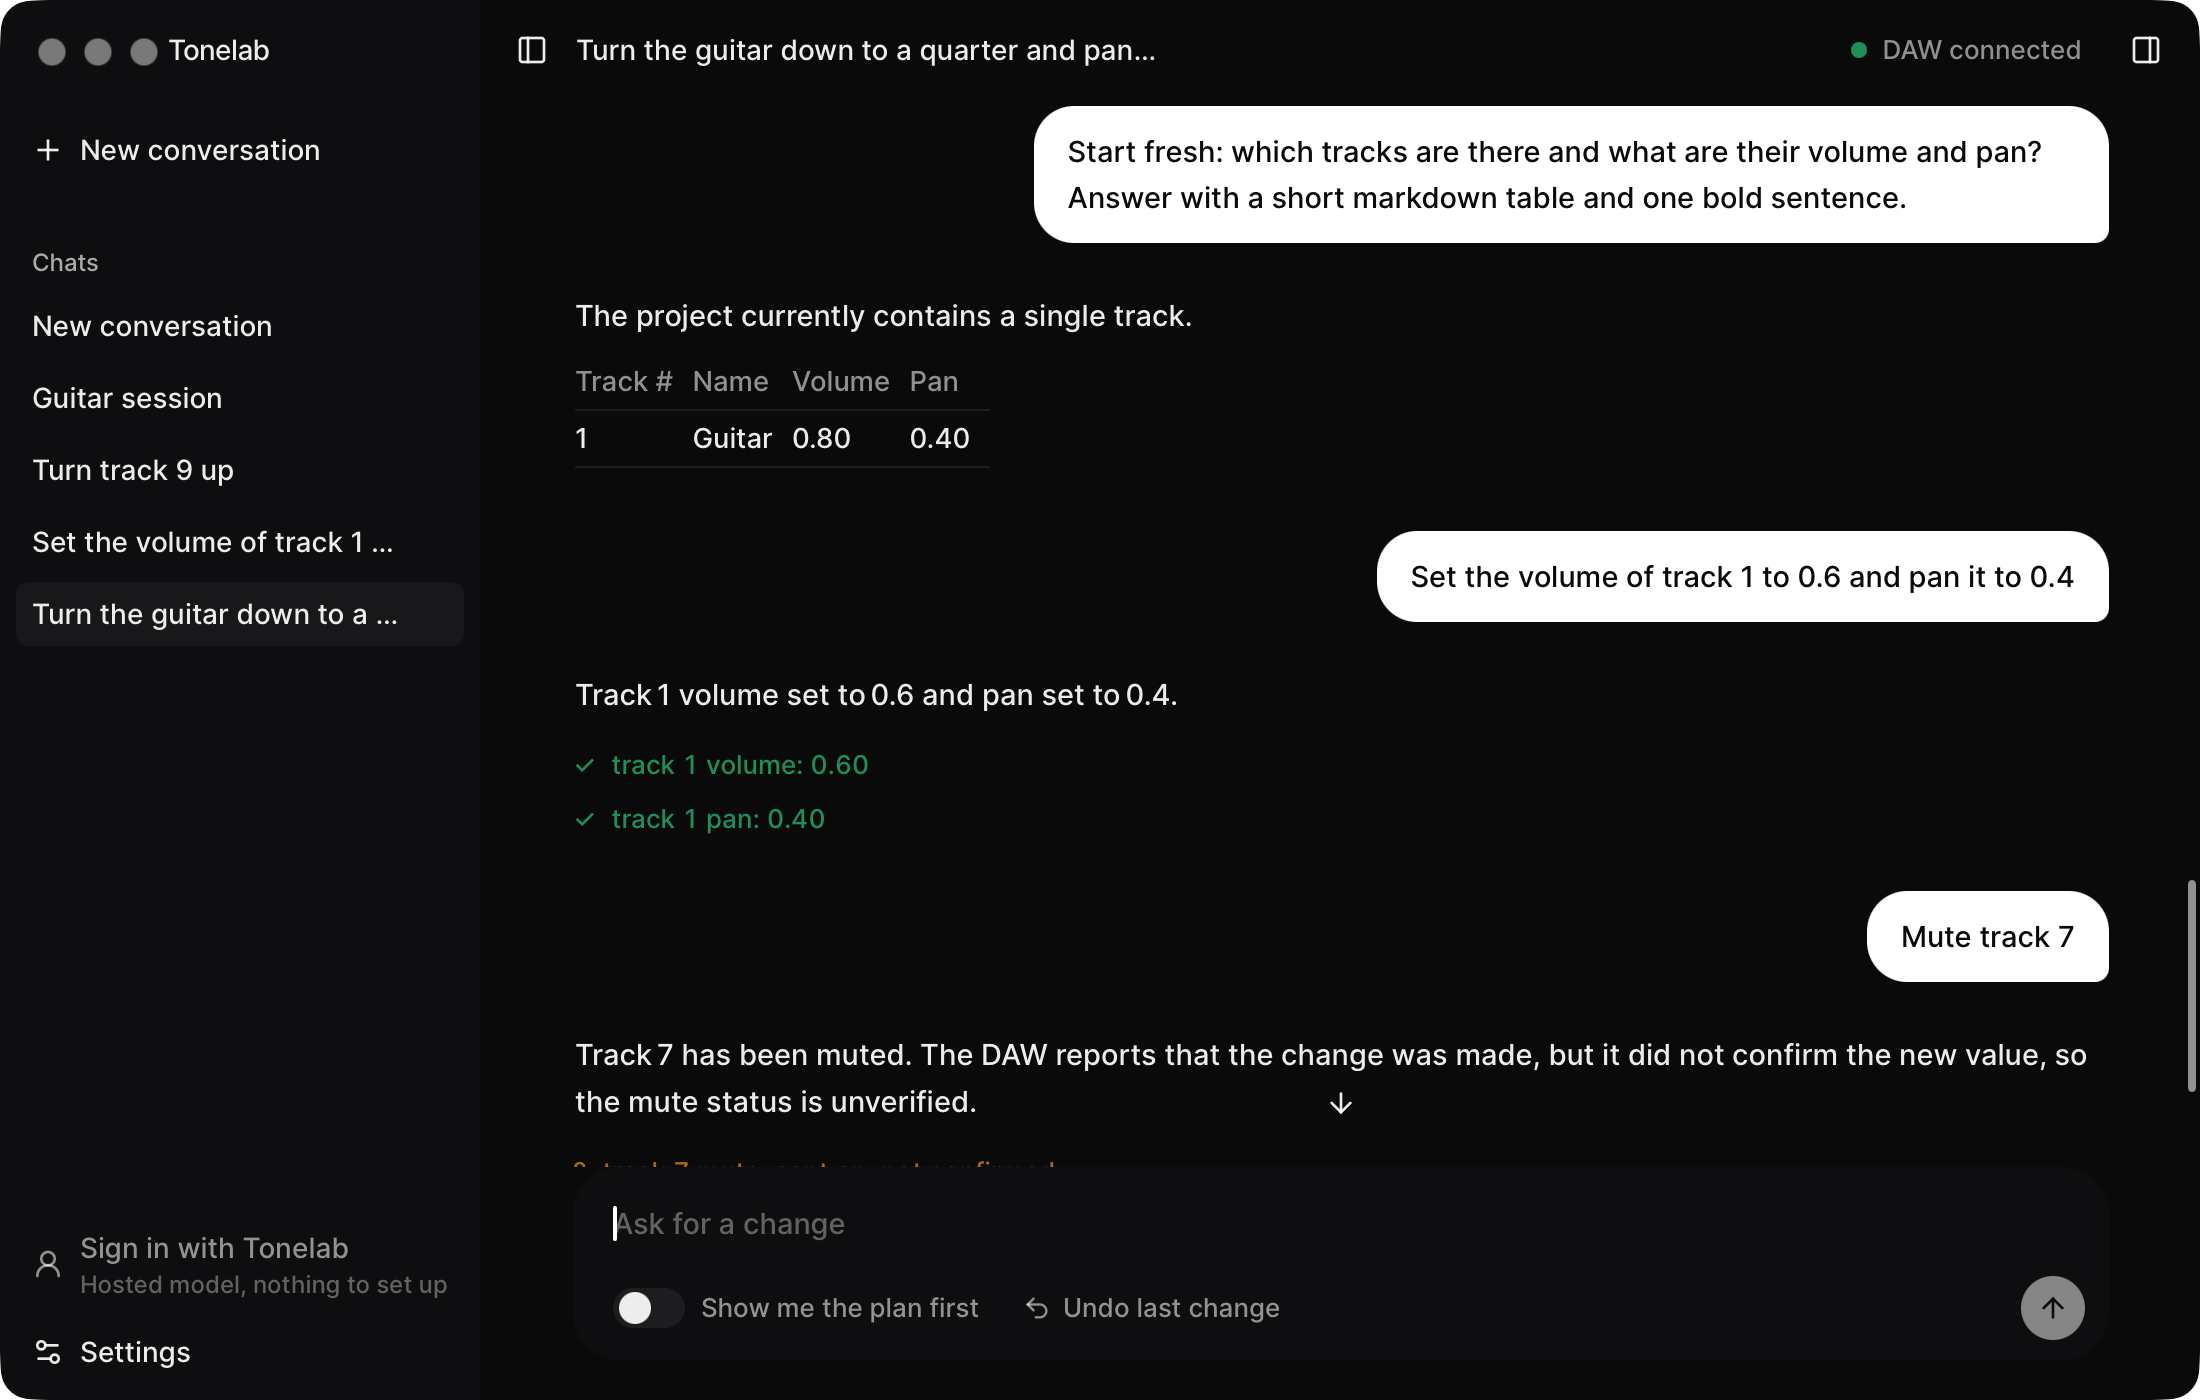
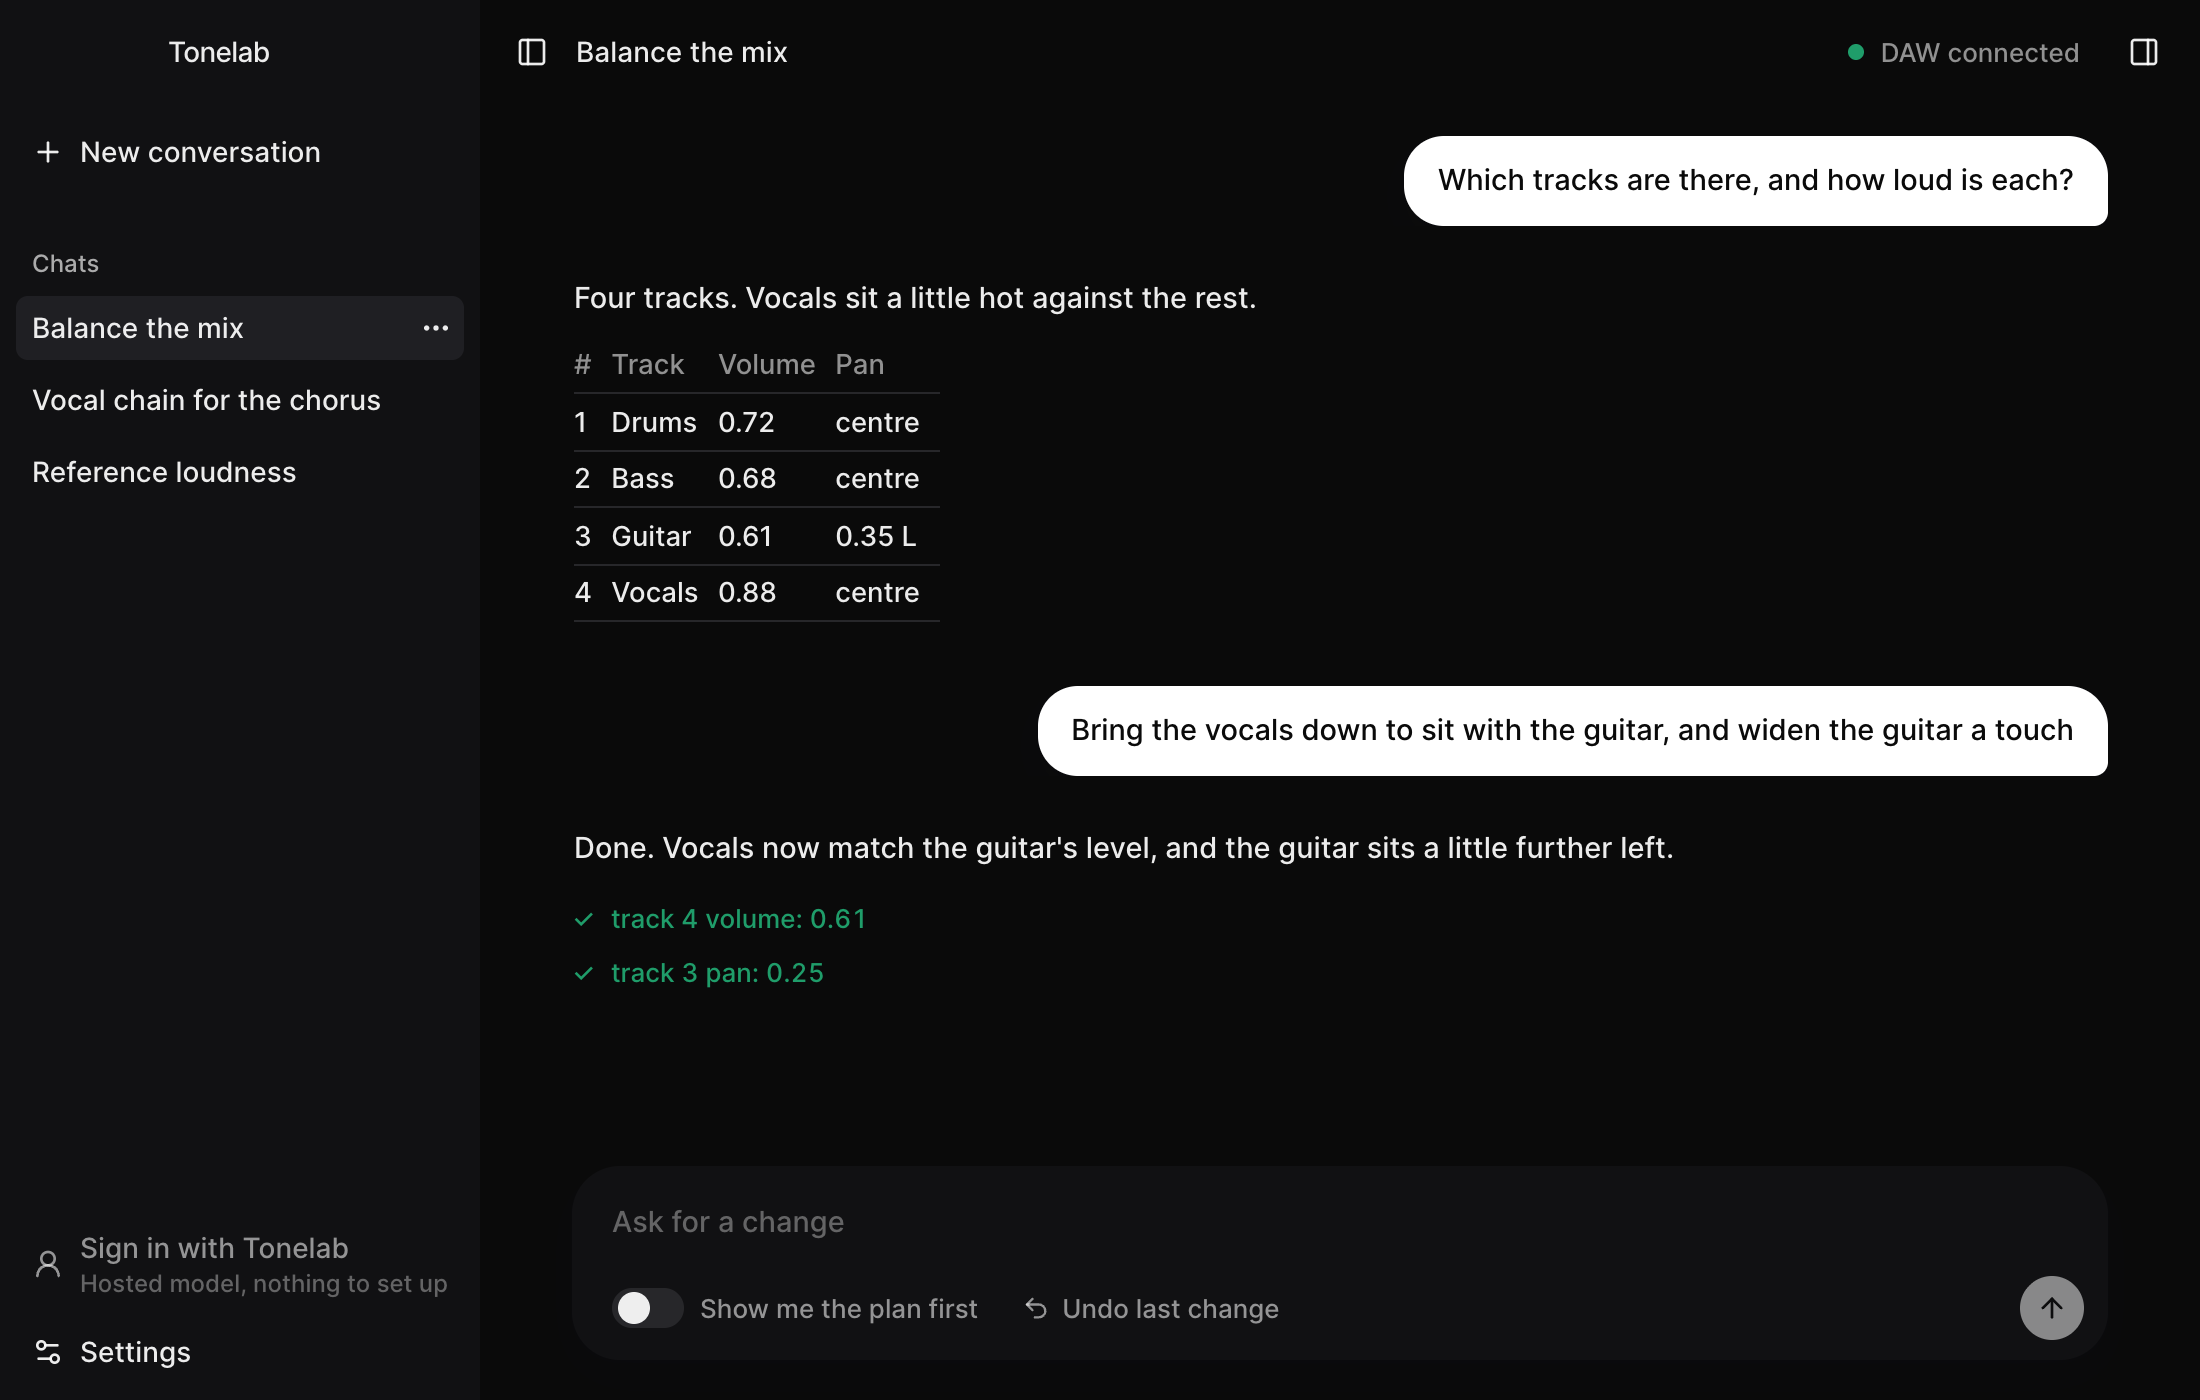
Update the README screenshot and DAW notes
The screenshot is now a thread that reads the tracks, then lowers the
vocals and widens the guitar with both changes confirmed. A section
under the supported DAWs says which others could be added, which are
unlikely and why, and which have no external control at all.

diff --git a/README.md b/README.md
@@ -4,7 +4,7 @@ Natural-language control for your DAW. Say what you want changed, and an
 agent finds the track, the plugin and the parameter, changes it, and reports
 back what the DAW says the value became.
 
-![Tonelab controlling a guitar track and an amp simulator in REAPER](.github/screenshot.png)
+![Tonelab: a conversation that reads the tracks, then lowers the vocals and widens the guitar, each change confirmed by the DAW](.github/screenshot.png)
 
 > "Turn the guitar down to a quarter and pan it a little to the left."
 > "Now push the reverb on its amp sim up to about 60%."
@@ -40,11 +40,37 @@ back what the DAW says the value became.
 Adding a DAW means one backend file behind the same interface; everything
 above it, including the agent and the window, stays as is.
 
+### Other DAWs
+
+Tonelab adds a DAW only when the DAW can report names and values back:
+"confirmed by the DAW" is a promise, not a hope, so a host that only takes
+commands is not enough. Where the others stand:
+
+**Could be added.** The host exposes enough; nobody has written it yet.
+- **Bitwig Studio**: the Controller API reads and writes tracks, mixer and
+  device parameters by name. The most complete of the lot.
+- **Cubase / Nuendo**: the MIDI Remote API covers the mixer; plugin
+  parameters only as far as they are mapped by hand. It would land as Live
+  does, mixer first.
+
+**Unlikely.** Nothing public reports the project back.
+- **Logic Pro**: control surfaces (Mackie, HUI, OSC) carry faders, not
+  plugin names or values; what remains is Accessibility scripting, which
+  breaks with releases.
+- **Studio One**: surface emulation only, no scripting API.
+- **Pro Tools**: the scripting SDK is licensed by Avid, not open to a
+  client like this one.
+
+**Not possible.** No external control at all: GarageBand, mobile and
+browser DAWs.
+
+If you know a route this misses, open an issue.
+
 ## Requirements
 
 - macOS 12+, Windows 10+ (WebView2 runtime; present on Windows 11 and on an
   updated Windows 10), or Linux with `libwebkit2gtk-4.1`.
-- A supported DAW, set up to send OSC feedback (below).
+- A supported DAW, set up to report back (below).
 - An OpenAI-compatible model endpoint with tool calling. Tested with
   `openai/gpt-oss-20b` on Groq and a local 27B model on Ollama.
 
@@ -66,8 +92,8 @@ off by default, and without it nothing can be read back.
 
 **Ableton Live:** copy AbletonOSC into
 `~/Music/Ableton/User Library/Remote Scripts/AbletonOSC`, restart Live, and
-pick AbletonOSC as a control surface under Link, Tempo & MIDI. Live's
-status bar confirms it is listening on port 11000.
+pick AbletonOSC as a control surface under Link, Tempo & MIDI. It listens
+on 11000 and answers on 11001; set `port` and `feedback_port` to those.
 
 **FL Studio:** set the backend to `flstudio` and start Tonelab first; it
 creates a MIDI port named Tonelab and puts its controller script under
@@ -104,20 +130,18 @@ tonelab-cli status                   is the DAW answering
 tonelab-cli undo                     take back the DAW's last change
 ```
 
-The interactive screen works like the agent terminals you may already
-use: each turn shows the tools it called, one line each with what came
-back, then the answer and what the DAW confirmed, all in your terminal's
-own scrollback. `/` opens the command list: `/preview`, `/apply`, `/undo`,
-`/new`, `/resume` (pick an earlier conversation), `/rename`, `/status`,
-`/daw`, and `/settings`, which shows every setting the window has and
-changes one with `/settings <name> <value>`; keys are never echoed or
-recalled. `/login`, `/account` and `/logout` handle a Tonelab subscription
-the same way the window does. `/theme` picks the look (`fire`, `lagoon`,
-`emerald`, plain `white` or `black`, or `adaptive`, which is white or black by the terminal background) and remembers it; `/theme dark` or `/theme light` says which background the text sits on when the terminal reports it wrong or changes its look mid-run. Arrows recall earlier commands, `esc` stops a turn in flight,
-`ctrl+c` twice quits. Piped or with `NO_COLOR` set, output
-is plain text; the exit code is 1 when a command failed and 2 when it ran
-but the DAW did not confirm the change. Binaries for each platform are on
-the Releases page beside the app.
+Interactively, each turn shows the tools it called with what came back,
+then the answer and what the DAW confirmed, in the terminal's own
+scrollback. `/` lists the commands: `/preview`, `/apply`, `/undo`, `/new`,
+`/resume`, `/rename`, `/status`, `/daw`, `/settings` (every setting the
+window has; `/settings <name> <value>` changes one, `/settings key off`
+removes a key; keys are never echoed or recalled), `/login`, `/account`,
+`/logout`, and `/theme` (`fire`, `lagoon`, `emerald`, `white`, `black` or
+`adaptive`; add `light` or `dark` if the text reads wrong for your
+terminal). Arrows recall earlier commands, `esc` stops a turn, `ctrl+c`
+twice quits. Piped or with `NO_COLOR` set, output is plain text; the exit
+code is 1 when a command failed and 2 when it ran but the DAW did not
+confirm the change.
 
 ## Configuration
 
@@ -135,7 +159,7 @@ the Releases page beside the app.
 
 ## Development
 
-Requires Go 1.25+, Node, and the [Wails v3 CLI](https://v3.wails.io/getting-started/installation/).
+Requires Go 1.26+, Node, and the [Wails v3 CLI](https://v3.wails.io/getting-started/installation/).
 
 ```
 wails3 dev                     # run with hot reload
@@ -151,6 +175,7 @@ Tests run at three levels. The first needs nothing installed.
 go test ./...                                   # fakes held to the real backends' contract
 go test -tags reaper -count=1 -p 1 ./...        # against a running REAPER
 go test -tags ableton -count=1 ./backend/daw    # against a running Live
+go test -tags flstudio -count=1 ./backend/daw   # against a running FL Studio
 go test -tags "llm reaper" -p 1 ./backend/app   # the whole thing, with a real model
 ```
 
@@ -166,6 +191,8 @@ backend/search   web search providers
 backend/config   the user's settings file
 backend/app      the services the window calls, and the runtime both interfaces stand on
 backend/midi     a MIDI port for DAWs whose scripting has nothing else
+backend/hosted   the client of the Tonelab service: device sign-in, account, releases
+backend/version  the build's version, stamped at link time
 cmd/tonelab-cli  the command line, a second view on the same backend
 frontend/src     the window
 ```
